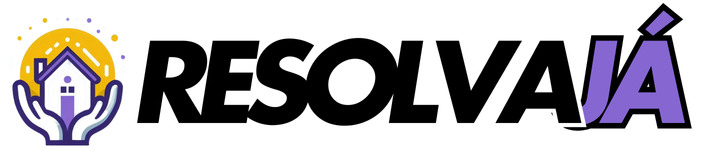
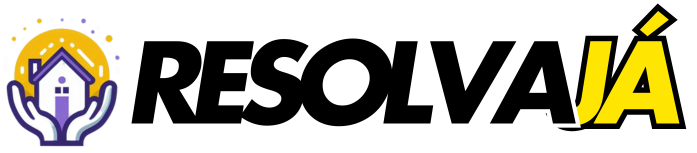
v1.3

diff --git a/www/assets/css/style.css b/www/assets/css/style.css
@@ -96,10 +96,11 @@ label{
     font-weight: normal;
     height: 45px;
     padding-top: 2px;
-    color: #fff;
+    color: #000;
     text-transform: uppercase;
-    background: #8666d1 !important;
-    border-color: #8666d1 !important;
+    font-weight: bold;
+    background: #ffe602 !important;
+    border-color: #ffe602 !important;
 }
 
 .btn-default,
@@ -2153,7 +2154,7 @@ p.apoio-servico{
   position: relative;
   display: block;
   width: 53px;
-  height: 29px;
+  height: 24px;
 }
 
 /* Esconde o input real */
@@ -2190,7 +2191,7 @@ p.apoio-servico{
 
 /* Quando o switch está ativado (checkbox checked) */
 .filtro-categorias input:checked + .slider {
-  background-color: #8666d1;
+  background-color: #ffe602;
 }
 
 .filtro-categorias input:checked + .slider:before {
